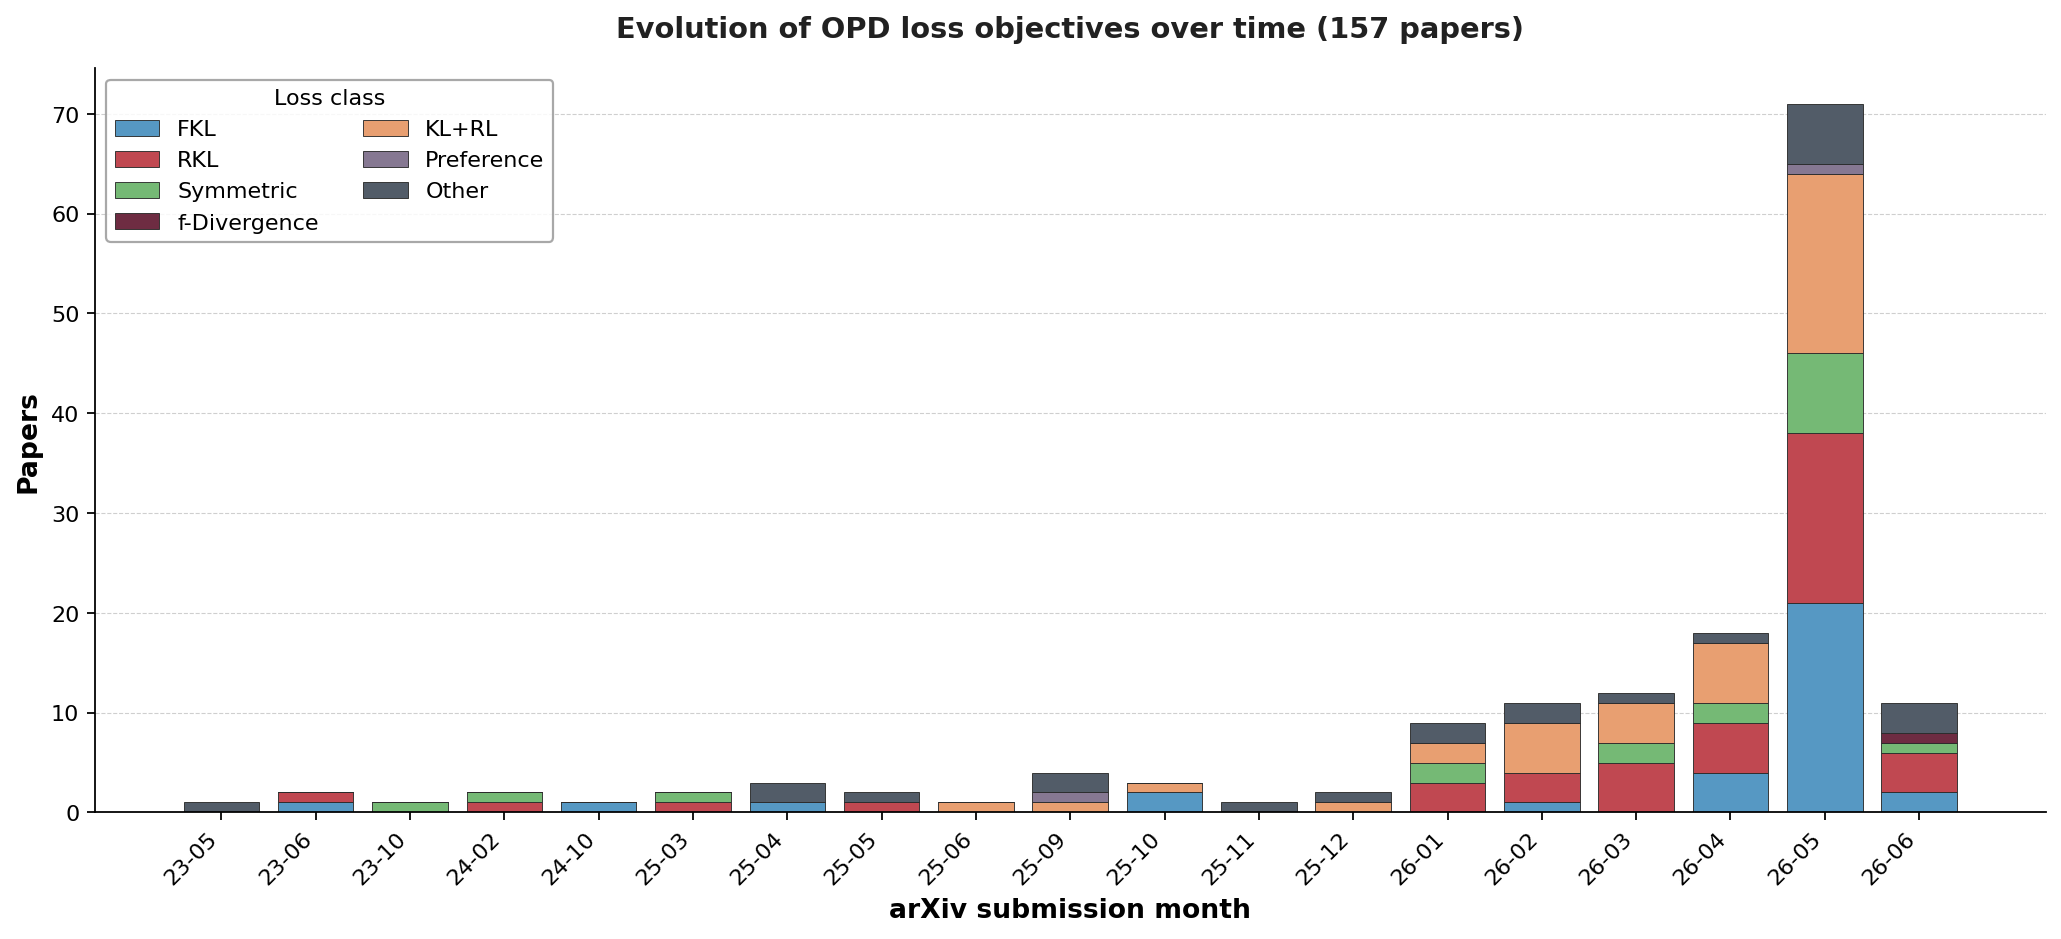
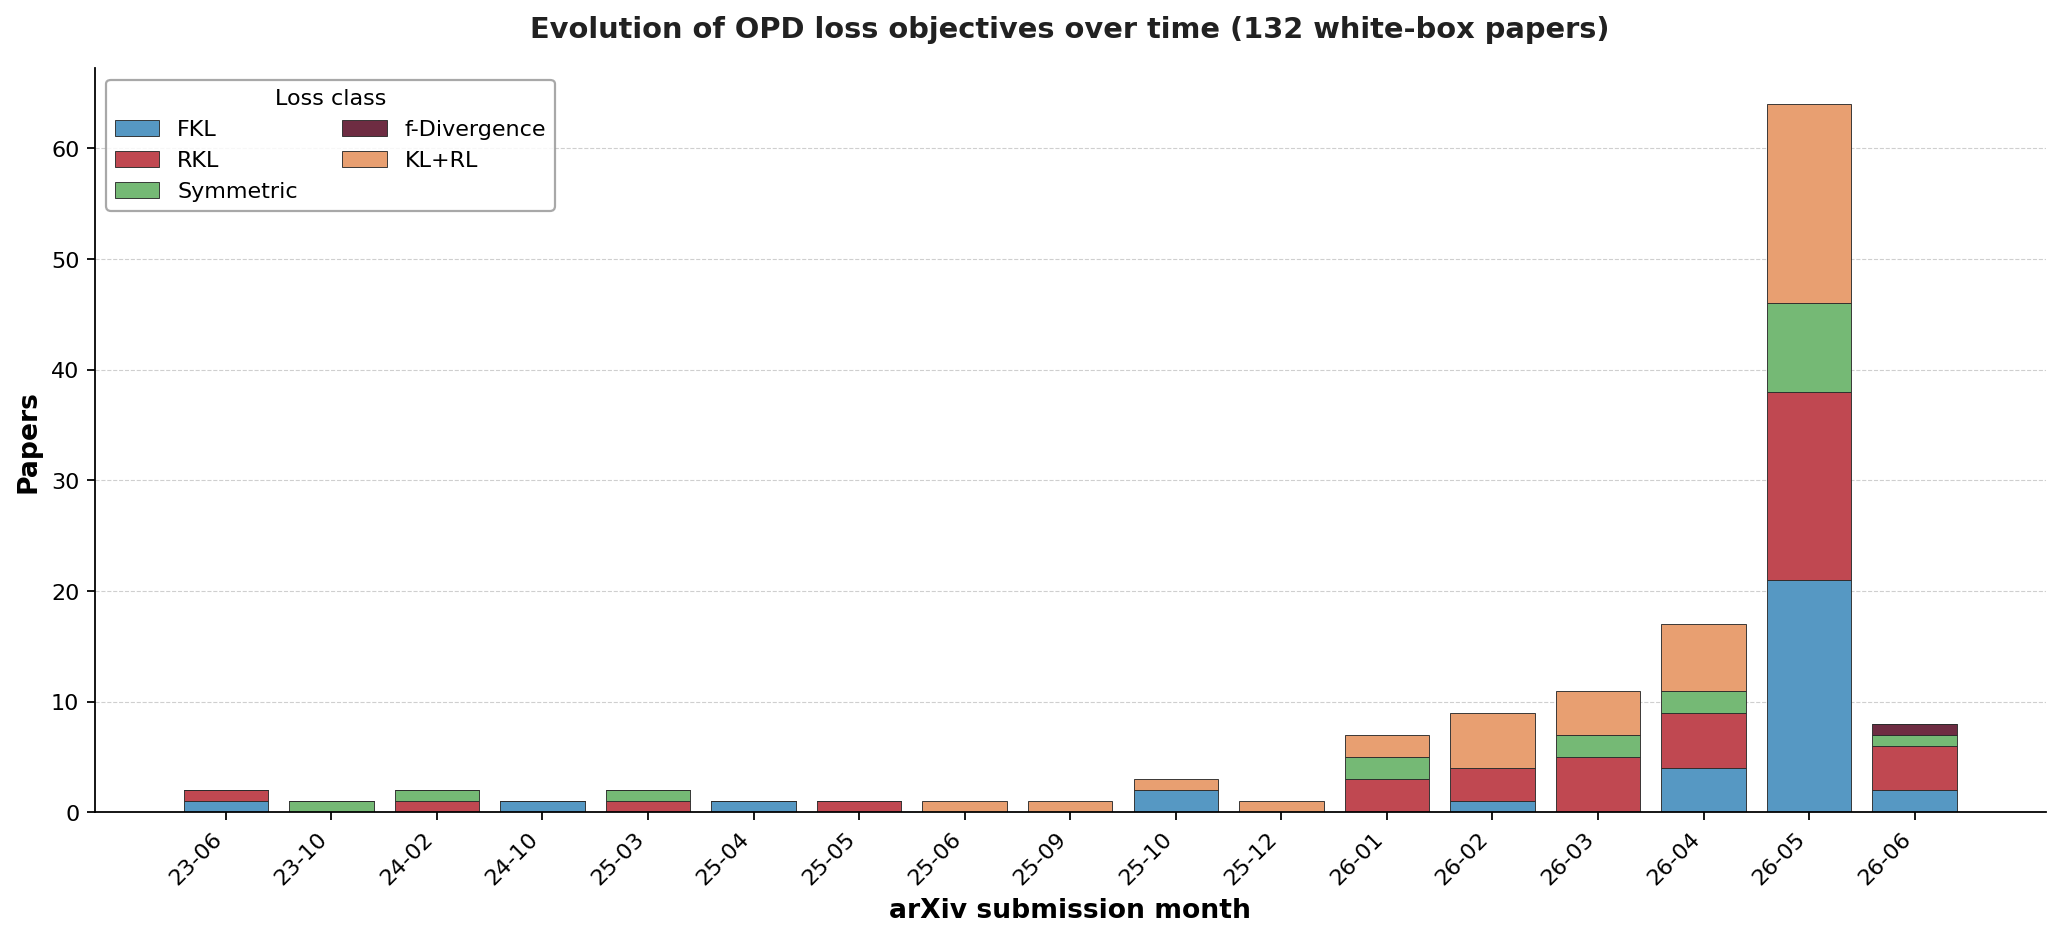
loss-taxonomy charts: white-box / KL-family papers only
Black-box methods (Preference / Other classes) are constrained by
teacher access (only API outputs available, so loss form is dictated by
preference / reward / discriminator / bespoke NLL); mixing them with
white-box methods dilutes the chart's meaning. Charts now show only
the 132 white-box (FKL / RKL / Symmetric / f-Divergence / KL+RL)
papers, with the 25 black-box / bespoke methods omitted in subtitle.

Per-paper assignments in resources/loss-taxonomy.md still cover all
157 classified papers regardless of class.

diff --git a/resources/loss-taxonomy.md b/resources/loss-taxonomy.md
@@ -6,6 +6,8 @@ Each of the **157** OPD papers in this collection is assigned exactly one of sev
 
 ![Loss Distribution](../assets/loss-distribution.png)
 
+> **Chart scope.** The distribution chart shows only the **132 white-box (KL-family) papers** (FKL / RKL / Symmetric / f-Divergence / KL+RL); the 25 black-box / bespoke methods (Preference, Other) are omitted because their loss form is constrained by teacher access (preference / reward / discriminator / NLL-on-samples) rather than chosen as a divergence design. Per-paper assignments below cover all 157 classified papers regardless of class.
+
 ## Class definitions (compact)
 
 ### FKL — Forward KL  ·  **33** papers (21.0%)
